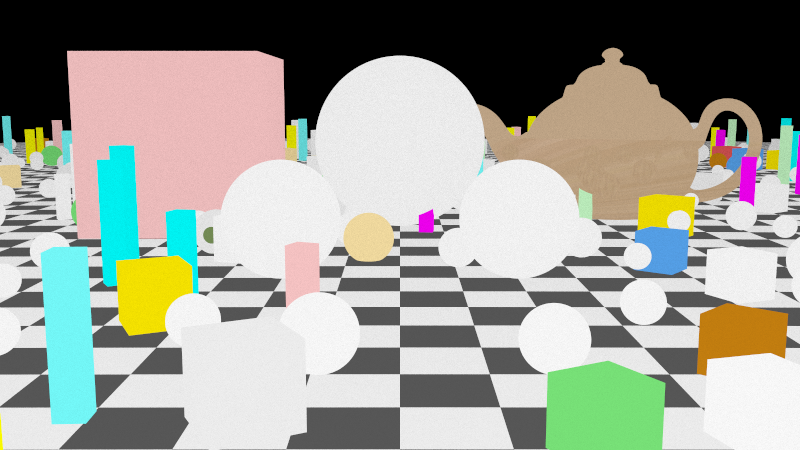
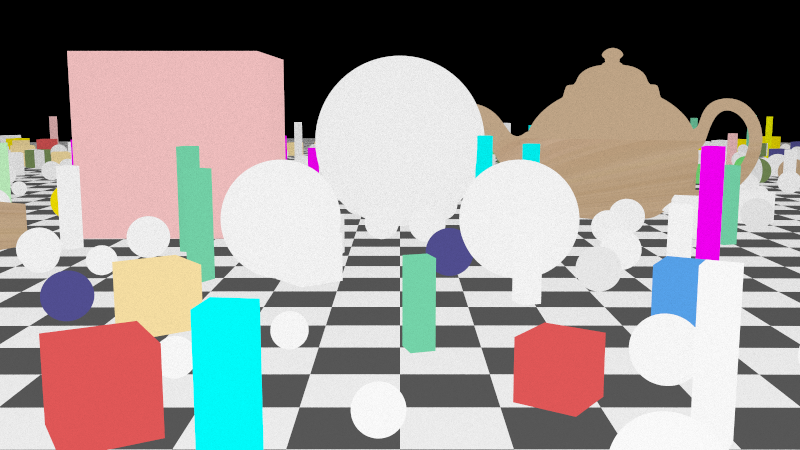
noise_fixes

diff --git a/camera.hpp b/camera.hpp
@@ -85,11 +85,22 @@ public:
 
 		// - 4. AI DENOISING -
 		if (use_denoiser) {
+			//beauty pass
 			apply_denoising(image_width, image_height, framebuffer, albedo_buffer, normal_buffer);
-			//save with denoiser only if use_denoiser == true
 			process_framebuffer_to_image(framebuffer, "image_RGB_denoised.png", post, false);
-		}
-		else {
+			//reflection pass
+			if (use_reflection) {
+				std::cerr << "[OIDN] Denoising Reflection Pass...\n";
+				apply_denoising(image_width, image_height, reflection_buffer, albedo_buffer, normal_buffer);
+			}
+			//refraction pass
+			if (use_refraction) {
+				std::cerr << "[OIDN] Denoising Refraction Pass...\n";
+				apply_denoising(image_width, image_height, refraction_buffer, albedo_buffer, normal_buffer);
+			}
+
+			std::cerr << "[OIDN] Multi-Pass Denoising finished.\n";
+		} else {
 			std::cerr << "\nDenoising is DISABLED. Skipping..." << std::endl;
 		}
 
@@ -128,8 +139,7 @@ public:
 			bloom_filter bloom(post.bloom_threshold, post.bloom_intensity, post.bloom_radius);
 			bloom.apply(framebuffer, image_width, image_height);
 			std::cerr << "Bloom Effect applied." << std::endl;
-		}
-		else {
+		} else {
 			std::cerr << "\nBloom Effect is DISABLED. Skipping..." << std::endl;
 		}
 
@@ -232,9 +242,10 @@ private:
 		int num_threads = std::max(1u, std::thread::hardware_concurrency());
 		std::vector<std::thread> threads;
 
+		//lamba function for rendering a block of rows
 		auto render_rows = [&](int start_y, int end_y) {
-			const int aux_sample = std::clamp(samples_per_pixel / 4, 16, 256);
-			const int light_pass_sample = std::clamp(samples_per_pixel / 2, 32, 512);
+			const int aux_sample = std::clamp(samples_per_pixel / 8, 64, 1024); //for albedo, normals, zdepth
+			const int light_pass_sample = samples_per_pixel; //for reflection/refraction
 
 			const double aux_scale = 1.0 / aux_sample;
 			const double light_scale = 1.0 / light_pass_sample;
@@ -248,6 +259,7 @@ private:
 					color pixel_reflection(0, 0, 0);
 					color pixel_refraction(0, 0, 0);
 
+					//sampling loop for each pixel 
 					for (int s = 0; s < samples_per_pixel; s++) {
 						//beauty pass (ray with defocus blur)
 						ray r_beauty = get_ray(i, j);
@@ -285,6 +297,7 @@ private:
 						}
 						//reflection/refraction passes
 						if (s < light_pass_sample) {
+							//get_sharp_ray to avoid defocus blur in reflection/refraction
 							ray r_light = get_sharp_ray(i, j);
 							hit_record rec_l;
 							//calculate reflection/refraction for the same sample
@@ -296,8 +309,9 @@ private:
 								if (rec_l.mat->scatter(r_light, rec_l, attenuation, scattered)) {
 									color scattered_color = ray_color(scattered, world, this->max_depth - 1, env);
 
-									double max_luma = 5.0; //brightness limiter for reflection/refraction
+									//limit maximum luma for reflection/refraction to avoid fireflies
 									double luma = 0.2126 * scattered_color.length();
+									double max_luma = 2.0; //maximum luma threshold
 									if (luma > max_luma) {
 										scattered_color *= (max_luma / luma);
 									}
@@ -324,7 +338,7 @@ private:
 
 					//average all the buffers
 					int idx = j * image_width + i;
-					framebuffer[idx] = pixel_color * pixel_samples_scale; //average by all the samples
+					framebuffer[idx] = pixel_color * light_scale; //average by all the samples
 					//average all the passes by declared aux_sample
 					albedo_buffer[idx] = pixel_albedo * aux_scale;
 					normal_buffer[idx] = pixel_normal * aux_scale;
@@ -492,8 +506,9 @@ void apply_denoising(int width, int height, std::vector<color>& framebuffer,
 	//copying the results back to the framebuffer (from float to double)
 	for (size_t i = 0; i < framebuffer.size(); ++i) {
 		framebuffer[i] = color(f_color[i * 3 + 0], f_color[i * 3 + 1], f_color[i * 3 + 2]);
-		albedo_buffer[i] = color(f_albedo[i * 3 + 0], f_albedo[i * 3 + 1], f_albedo[i * 3 + 2]);
-		normal_buffer[i] = color(f_normal[i * 3 + 0], f_normal[i * 3 + 1], f_normal[i * 3 + 2]);
+
+		//albedo_buffer[i] = color(f_albedo[i * 3 + 0], f_albedo[i * 3 + 1], f_albedo[i * 3 + 2]);
+		//normal_buffer[i] = color(f_normal[i * 3 + 0], f_normal[i * 3 + 1], f_normal[i * 3 + 2]);
 	}
 }
 
@@ -659,17 +674,24 @@ color ray_color(const ray& r, const hittable& world, int depth, const Environmen
 		if (rec.mat->scatter(cur_ray, rec, attenuation, scattered)) {
 			accumulated_attenuation *= attenuation;
 			cur_ray = scattered;
+
+			//early termination if the ray is very weak after 10 bounces
+			if (i > 10 && accumulated_attenuation.length() < 0.00001) {
+				break;
+			}
 		}
 		else {
 			//material absorbed the ray, no more light is gathered
 			break;
 		}
 
-		//optimization "russian roulette" (for rays bouncing optimazation e.g. after 4 hits)
-		if (i > 4) {
+		//optimization "russian roulette" (for rays bouncing optimazation e.g. after 10 hits)
+		if (i > 10) {
 			//chance of survival based on the strongest color channel (luminance)
 			double p = std::max({ accumulated_attenuation.x(), accumulated_attenuation.y(), accumulated_attenuation.z() });
 
+			//prevent division by zero and too small values
+			p = std::clamp(p, 0.05, 0.95);
 			//if the ray is very weak, we give it a chance to survive (e.g., 50% or p)
 			if (random_double() > p) {
 				break; //ray terminated

diff --git a/main.cpp b/main.cpp
@@ -58,7 +58,7 @@ int main() {
 	cam.lookat = point3(0, 0, 0); //cords for camera target
 	cam.vup = vec3(0, 1, 0); //up vector set to Y
 	//c. defocus blur settings
-	cam.defocus_angle = 0.6; //higher values more blur on objects outside defocus point
+	cam.defocus_angle = 0.5; //higher values more blur on objects outside defocus point
 	cam.focus_dist = 10.0; //higher values defocus point more far from camera
 	//d. render passes
 	cam.use_denoiser = true;
@@ -79,15 +79,15 @@ int main() {
 	my_post.vignette_intensity = 0.0;
 	my_post.use_aces_tone_mapping = true;
 	//b. z-depth settings
-	my_post.z_depth_max_dist = 15.0;
+	my_post.z_depth_max_dist = 2.0;
 	//c. debug modes
 	my_post.use_auto_exposure = true;
 	my_post.current_debug_mode = debug_mode::NONE; //change debug mode here(NONE, RED, GREEN, BLUE, LUMINANCE)
 	//d. bloom settings
 	my_post.use_bloom = true;
 	my_post.bloom_threshold = 1.2f;	
-	my_post.bloom_intensity = 0.6f;
-	my_post.bloom_radius = 8;
+	my_post.bloom_intensity = 0.35f;
+	my_post.bloom_radius = 4;
 
 	// - 7. RENDER
 	cam.render(bvh_world, env, my_post);
